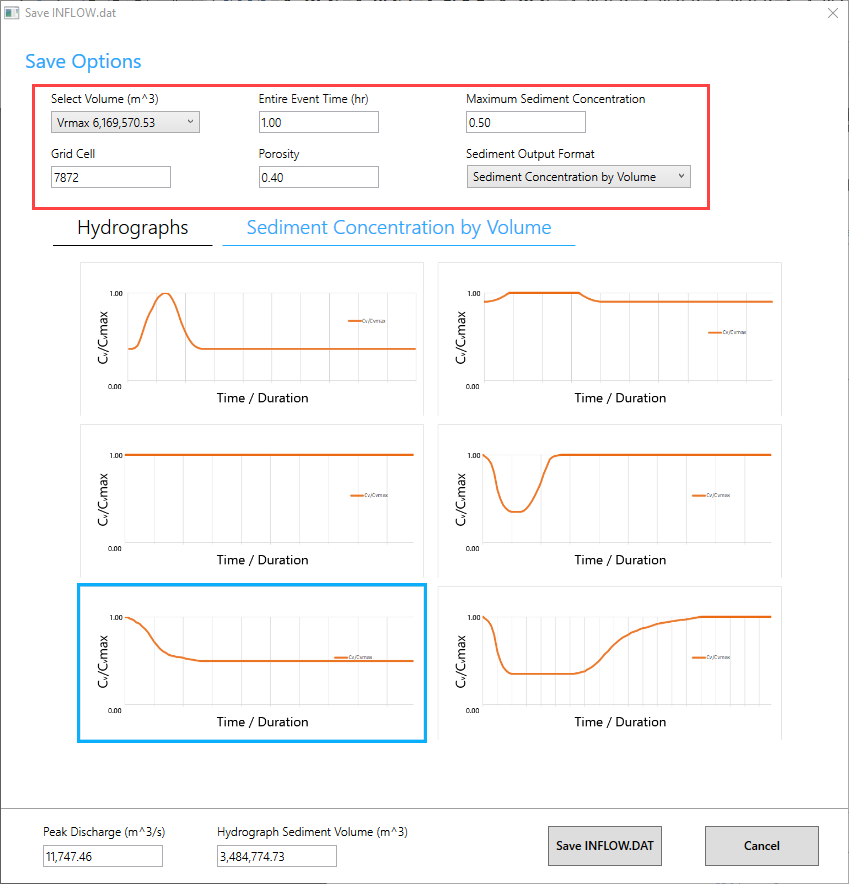
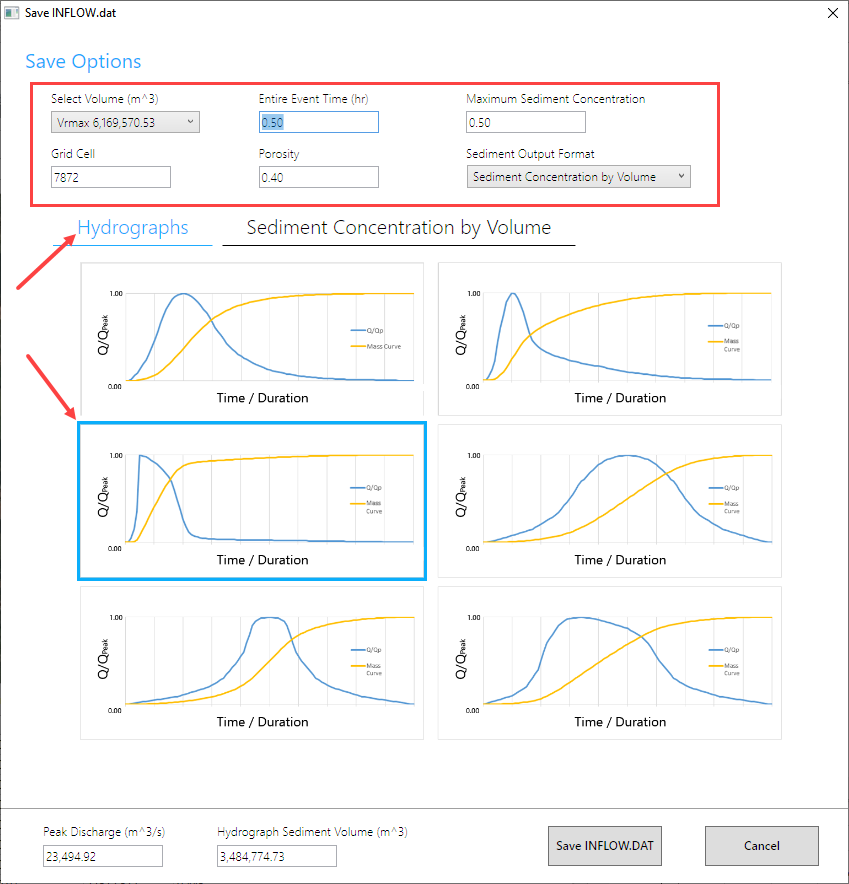
Update Module 3, 6, and fully rebuild 7.

diff --git a/source/Advanced-Lessons/Module 7.rst b/source/Advanced-Lessons/Module 7.rst
@@ -4,6 +4,9 @@ Tailings Dam Model
 **Overview**
 
 In this tutorial, use QGIS and the tailings dam tool to create a tailings dam hydrograph and simulate a tailings dam failure.
+The following video covers the Data Assembly Process for a Tailings Dam Study.
+
+.. youtube:: z8epzv95l4k
 
 Required data
 -------------
@@ -33,6 +36,10 @@ SP-RC-117/17 Rev.4.Pg.1–265. published on May 17, 2017, Ordinance DNPM No. 70,
 https://worldminetailingsfailures.org/wp-content/uploads/2019/03/TUV_SUD_2017_Periodic_Safety_Review.en_.pdf
 
 **Note:  Copy the link into a browser if broken.**
+
+The following video will use the tutorial steps below to create the tailings dam hydrograph and run the model.
+
+.. youtube:: KJ7NYb_YIHo
 
 Step 1: Load the project
 ------------------------
@@ -79,10 +86,10 @@ Step 3. Run the Tailings Dam Tool
 
 .. image:: ../img/Advanced-Workshop/Module243.png
 
-Step 4. Dam geometry
---------------------
+Step 4. Review Dam geometry
+----------------------------
 
-Dam Height = 70 m
+Dam Height = 86 m
 
 Downstream Slope = 1.5:1
 
@@ -97,11 +104,11 @@ Freeboard = 5m
 .. image:: ../img/Advanced-Workshop/Module245.png
 
 Figure 2.
-Dam Geometry at crest.
+Dam geometry at crest.
 Source: Periodic Safety Review Vale TUV SUD (2017).
 
-Step 5. Volume
---------------
+Step 5. Dam and Tailings Volume
+-------------------------------
 
 Volume Solids: 7.53X10^6 m\ :sup:`3`
 
@@ -115,8 +122,8 @@ Figure 3.
 Volume Curve 6.22.
 Source: Periodic Safety Review Vale TUV SUD (2017).
 
-Step 6. Geotech data
---------------------
+Step 6. Dam geotech data
+--------------------------
 
 Dam compacted Unit Weight = 19 KN/m\ :sup:`3` = 9279.43 kg/m\ :sup:`3`
 
@@ -143,7 +150,7 @@ Unit weight = 20 KN/m\ :sup:`3` = 2039.44 kg/m\ :sup:`3`
 Step 8. Saturated tailings depth
 --------------------------------
 
-Dam elevation = 942
+Dam elevation = 942 m
 
 Water depth = 20 m (max) 5 m (min)
 
@@ -158,11 +165,11 @@ Source: Periodic Safety Review Vale TUV SUD (2017).
 Step 9. Tailings dam tool
 -------------------------
 
-1. Fill the data from the previous pages.
+1. Fill the data from the previous pages.  Start with Options/Units = Metric
 
 .. image:: ../img/Advanced-Workshop/Module249.png
 
-2. Set the reservoir level to medium.
+2. On the next, Choose the Static Mode and set the Reservoir Level to Medium.
 
 3. Click the Create INFLOW.DAT button.
 
@@ -170,28 +177,92 @@ Step 9. Tailings dam tool
 
 4. Set the volume to Vrmax.
 
-5. Change the event time to 0.25 hours.
+5. Change the event time to 0.50 hours.  This variable is highly sensitive to the early hazard zone.
    The report states that in 10 min 75% of the reservoir was drained.
 
 6. Set the max concentration to 0.50 or 0.60.
-   Test sensitivity.
+   This value can be used to test sensitivity of the breach runnout and deposition.
 
 7. The inflow node is 7872.
 
-8. Click the blue graph.
-
-9. Change the tab to Sediment Concentration by Volume.
+8. Click the graph on the bottom left shown in the blue rectangle.
 
 .. image:: ../img/Advanced-Workshop/Module251.png
 
+9. Change the tab to Sediment Concentration by Volume.
+
 10. Set the graph to the blue box and Save the INFLOW.DAT file.
 
-11. Save the file to Module 7 Export.
+11. Save the INFLOW.DAT file to the **Module 7 Export** folder.
 
 .. image:: ../img/Advanced-Workshop/Module252.png
 
-Step 7. Export and run the model
+12. Save the Tailings Breach 1.xml file.
+
+.. image:: ../img/Advanced-Workshop/Module291.png
+
+13. Close the Tailings Dam Tool.
+
+Step 10. Import the inflow data
 --------------------------------
+
+1. Close the message in QGIS.
+
+.. image:: ../img/Advanced-Workshop/Module292.png
+
+2. Click the Import Components button.
+
+.. image:: ../img/Advanced-Workshop/Module293.png
+
+3. Open the CONT.DAT file.
+
+.. image:: ../img/Advanced-Workshop/Module294.png
+
+4. Uncheck Select All, check Inflow Elements and click OK.
+
+.. image:: ../img/Advanced-Workshop/Module295.png
+
+5. Click ok to close the import message.
+
+.. image:: ../img/Advanced-Workshop/Module296.png
+
+.. image:: ../img/Advanced-Workshop/Module297.png
+
+6. Click the Schematized layers to User layers conversion button.
+
+.. image:: ../img/Advanced-Workshop/Module298.png
+
+7. Check the boundary conditions box and click OK and then click ok to close the message.
+
+.. image:: ../img/Advanced-Workshop/Module299.png
+
+.. image:: ../img/Advanced-Workshop/Module300.png
+
+8. Click the Schematize button on the Boundary Condition Editor widget and then close both messages.
+
+.. image:: ../img/Advanced-Workshop/Module305.png
+
+Step 11. Set the Mud/Debris Data
+--------------------------------
+
+1. Click the Mudflow / Sediment transport button.
+
+.. image:: ../img/Advanced-Workshop/Module301.png
+
+2. Fill the dialog box as shown below and click OK.
+
+.. image:: ../img/Advanced-Workshop/Module302.png
+
+3. Click the Control Variable button.
+
+.. image:: ../img/Advanced-Workshop/Module303.png
+
+4. Select Mud/Debris from the drop down box and click Save.
+
+.. image:: ../img/Advanced-Workshop/Module304.png
+
+Step 12. Export and run the model
+---------------------------------
 
 1. Export the FLO-2D Data files.
    Click OK.

diff --git a/source/Advanced-Lessons/Module 6.rst b/source/Advanced-Lessons/Module 6.rst
@@ -86,84 +86,47 @@ Each variable is discussed in the Data Input Manual BREACH.DAT tab.
 This data may be available from the original dam construction manual or from periodical safety reports.
 Check with the dam owner, or dam safety agency for data.
 
-==== =========== ==========================================
-0.1  d50c        d50 core (mm)
-==== =========== ==========================================
-0.35 porc        porosity core ()
-120  uwc         unit weight core (lb/ft\ :sup:`3`)
-0.15 cnc         roughness n core
-33   afrc        angle of internal friction core(degrees)
-750  cohc        cohesive strength core (lb/ft\ :sup:`3`)
-50   unfcc       sediment gradient ratio
-50   d50s        d50 shell (mm)
-0.4  pors        porosity shell ()
-100  uws         unit weight shell (lb/ft\ :sup:`3`)
-0.2  cns         roughness n shell
-32   afrs        angle of internal friction shell (degrees)
-250  cohs        cohesive strength shell (lb/ft\ :sup:`3`)
-10   unfcs       sediment gradient ratio
-0    grasslength grass length downstream face (in)
-0    grasscond   grass condition downstream face (0 or 1)
-0    grassvmaxp  maximum permissible velocity (fps)
-300  d50df       d50 downstream face (mm)
-2    unfcdf      sediment gradient downstream face
-==== =========== ==========================================
+===== =========== ==========================================
+Value Variable    Description
+===== =========== ==========================================
+0.1   d50c        d50 core (mm)
+0.35  porc        porosity core
+120   uwc         unit weight core (lb/ft\ :sup:`3`)
+0.15  cnc         roughness n core
+33    afrc        angle of internal friction core(degrees)
+750   cohc        cohesive strength core (lb/ft\ :sup:`3`)
+50    unfcc       sediment gradient ratio
+50    d50s        d50 shell (mm)
+0.4   pors        porosity shell
+100   uws         unit weight shell (lb/ft\ :sup:`3`)
+0.2   cns         roughness n shell
+32    afrs        angle of internal friction shell (degrees)
+250   cohs        cohesive strength shell (lb/ft\ :sup:`3`)
+10    unfcs       sediment gradient ratio
+0     grasslength grass length downstream face (in)
+0     grasscond   grass condition downstream face (0 or 1)
+0     grassvmaxp  maximum permissible velocity (fps)
+300   d50df       d50 downstream face (mm)
+2     unfcdf      sediment gradient downstream face
+===== =========== ==========================================
 
 Step 5. Review general breach parameters
 ----------------------------------------
 
 Each variable is discussed in the Data Input Manual BREACH.DAT tab.
 
-.. _`2500`:
-
-2500:
-
-brbotwidmax
-
-Maximum width to constrict the bottom of the breach.
-
-.. _`7900`:
-
-7900:
-
-brtopwidmax
-
-Maximum width to constrict the top of the breach.
-
-.. _`1755`:
-
-1755:
-
-brbottomel
-
-start of breach elevation.
-Sensitive to instability.
-If unstable, set to 1 to 3 ft below the crest elevation.
-
-.. _`3.05`:
-
-3.05:
-
-weircoef
-
-weir coefficient
-
-.. _`1.5`:
-
-1.5:
-
-bratio
-
-Initial breach width to depth ratio.
-
-.. _`0`:
-
-0:
-
-breachtime
-
-Time the water surface elevation must last before the breach initiates.
-
+===== =========== =========================================================
+Value Variable    Description
+===== =========== =========================================================
+2500  brbotwidmax Maximum width to constrict the bottom of the breach (ft).
+7900  brtopwidmax Maximum width to constrict the top of the breach.
+1755  brbottomel  Start of breach elevation (ft).  Sensitive to instability.
+                  If unstable, set to 1 to 3 ft below the crest elevation.
+3.05  weircoef    Weir coefficient
+1.5   bratio      Initial breach width to depth ratio.
+0.0   breachtime  Time the water surface elevation must sustain before the
+                  breach will initiate (hours).
+===== =========== =========================================================
 
 Step 6. Create the breach point
 -------------------------------

diff --git a/source/Workshops/Lesson 3.rst b/source/Workshops/Lesson 3.rst
@@ -112,59 +112,14 @@ The shapefiles can be described as follow:
 
 .. image:: ../img/Workshop/Worksh094.png
 
-The following data must be available in the shapefile to create the **SWMM.INP** files and the associated storm drain data files: **SWMMFLO.DAT**,
-**SWMMOUTF.DAT** and **SWMMFLORT.DAT**.
+The following data must be available in the shapefile to create the **SWMM.INP** files and the associated storm drain
+data files: **SWMMFLO.DAT**, **SWMMOUTF.DAT** and **SWMMFLORT.DAT**.
 
------------- ----------------------------------
-**CONDUITS** Name
------------- ----------------------------------
-\            Upstream Inlet/Junction
-\            Downstream Inlet/Junction
-\            Inlet/Outlet Offset (not required)
-\            Shape
-\            No of Barrels
-\            Max Depth (Diameter for circular)
-\            Geom 2 (Width for rectangle)
-\            Geom 3
-\            Geom 4
-\            Length
-\            Manning’s N
-\            Initial Flow (Not required)
-\            Maximum Flow (Not required)
-\            Entry Loss Coef (Not required)
-\            Exit Loss Coef (Not required)
-\            Average Loss Coef (Not required)
-\            Flap Gate
------------- ----------------------------------
+.. image:: ../img/Advanced-Workshop/conduits.png
 
--------------------- --------------------------------
-**INLETS/JUNCTIONS** Name
--------------------- --------------------------------
-\                    Invert Elevation
-\                    Maximum Depth
-\                    Initial Depth (Not required)
-\                    Surcharge Depth (Not required)
-\                    Length/Perimeter
-\                    Width/Area
-\                    Height/Sag/Surcharge Depth
-\                    Weir Coefficient
-\                    Feature (Not required)
-\                    Curb Height (Not required)
-\                    Clogging Factor (Not required)
-\                    Time for Clogging (Not required)
--------------------- --------------------------------
+.. image:: ../img/Advanced-Workshop/inlets.png
 
------------- --------------------------
-**OUTFALLS** Name
------------- --------------------------
-\            Invert Elevation
-\            Flap Gate
-\            Allow Discharge Switch
-\            Outfall Type
-\            Water Depth (Not required)
-\            Tide Curve (Not required)
-\            Time Series (Not required)
------------- --------------------------
+.. image:: ../img/Advanced-Workshop/outfalls.png
 
 Step 3: Select components from shapefile layer
 ______________________________________________
